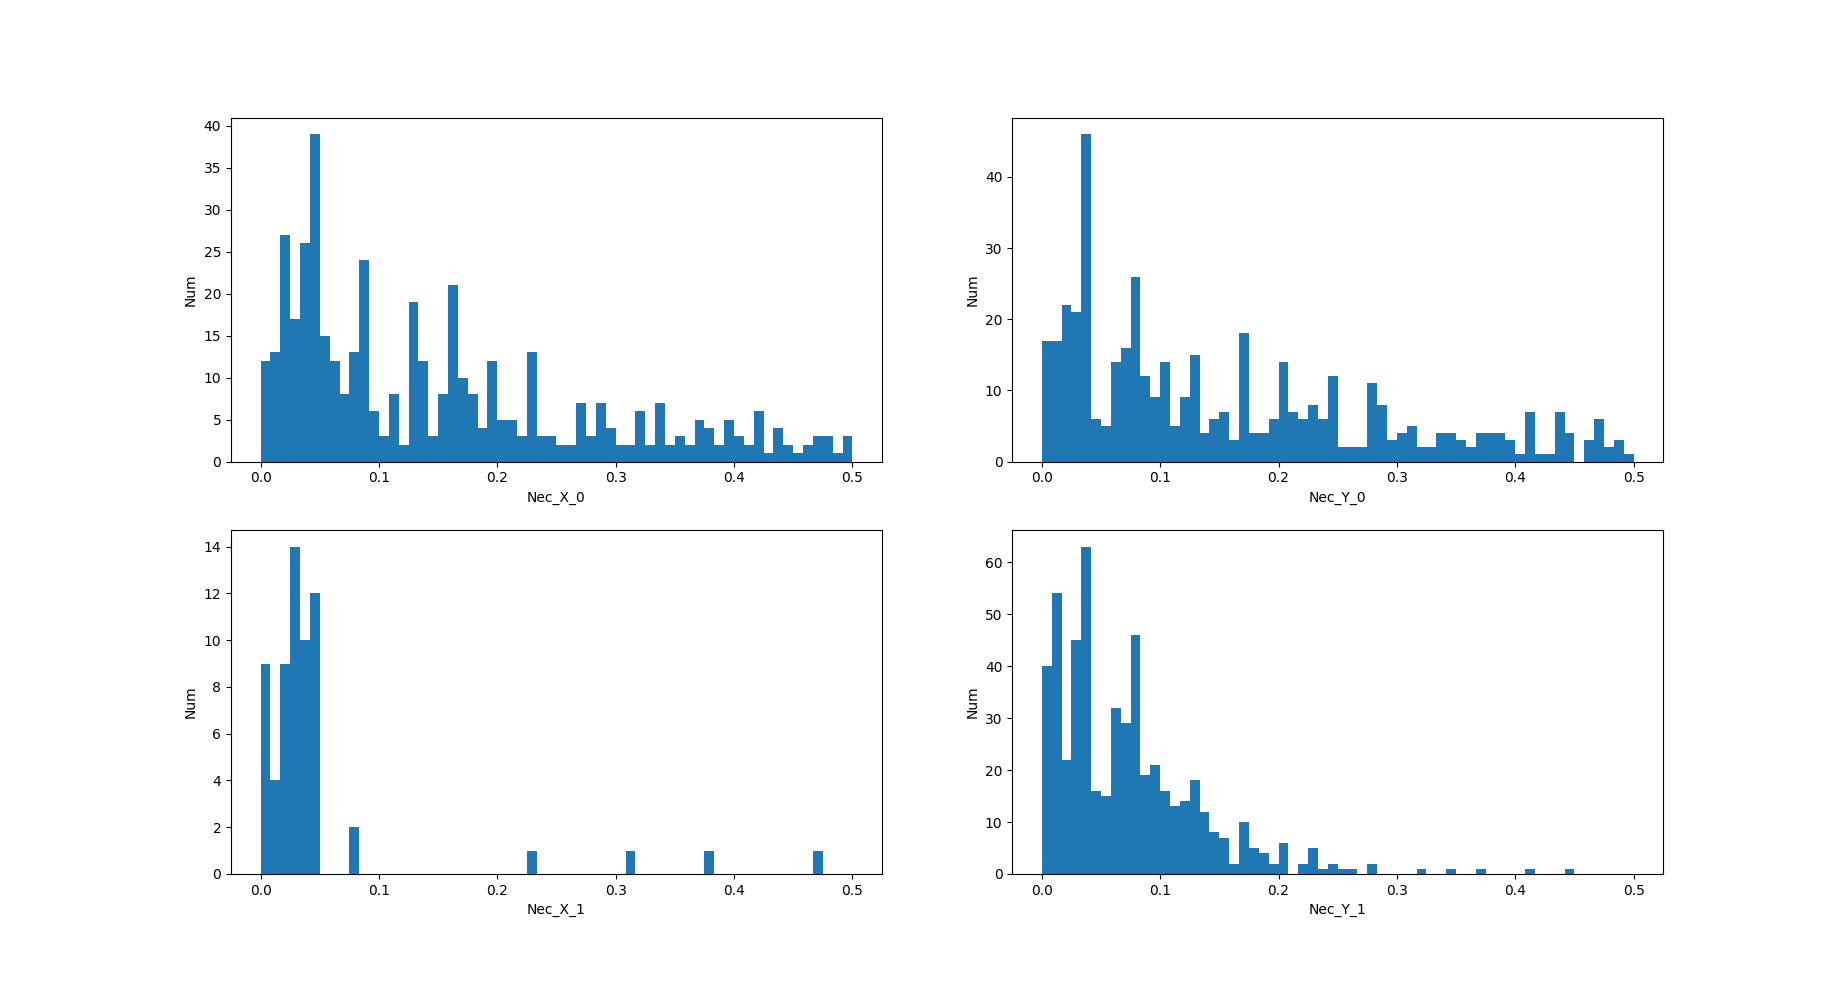
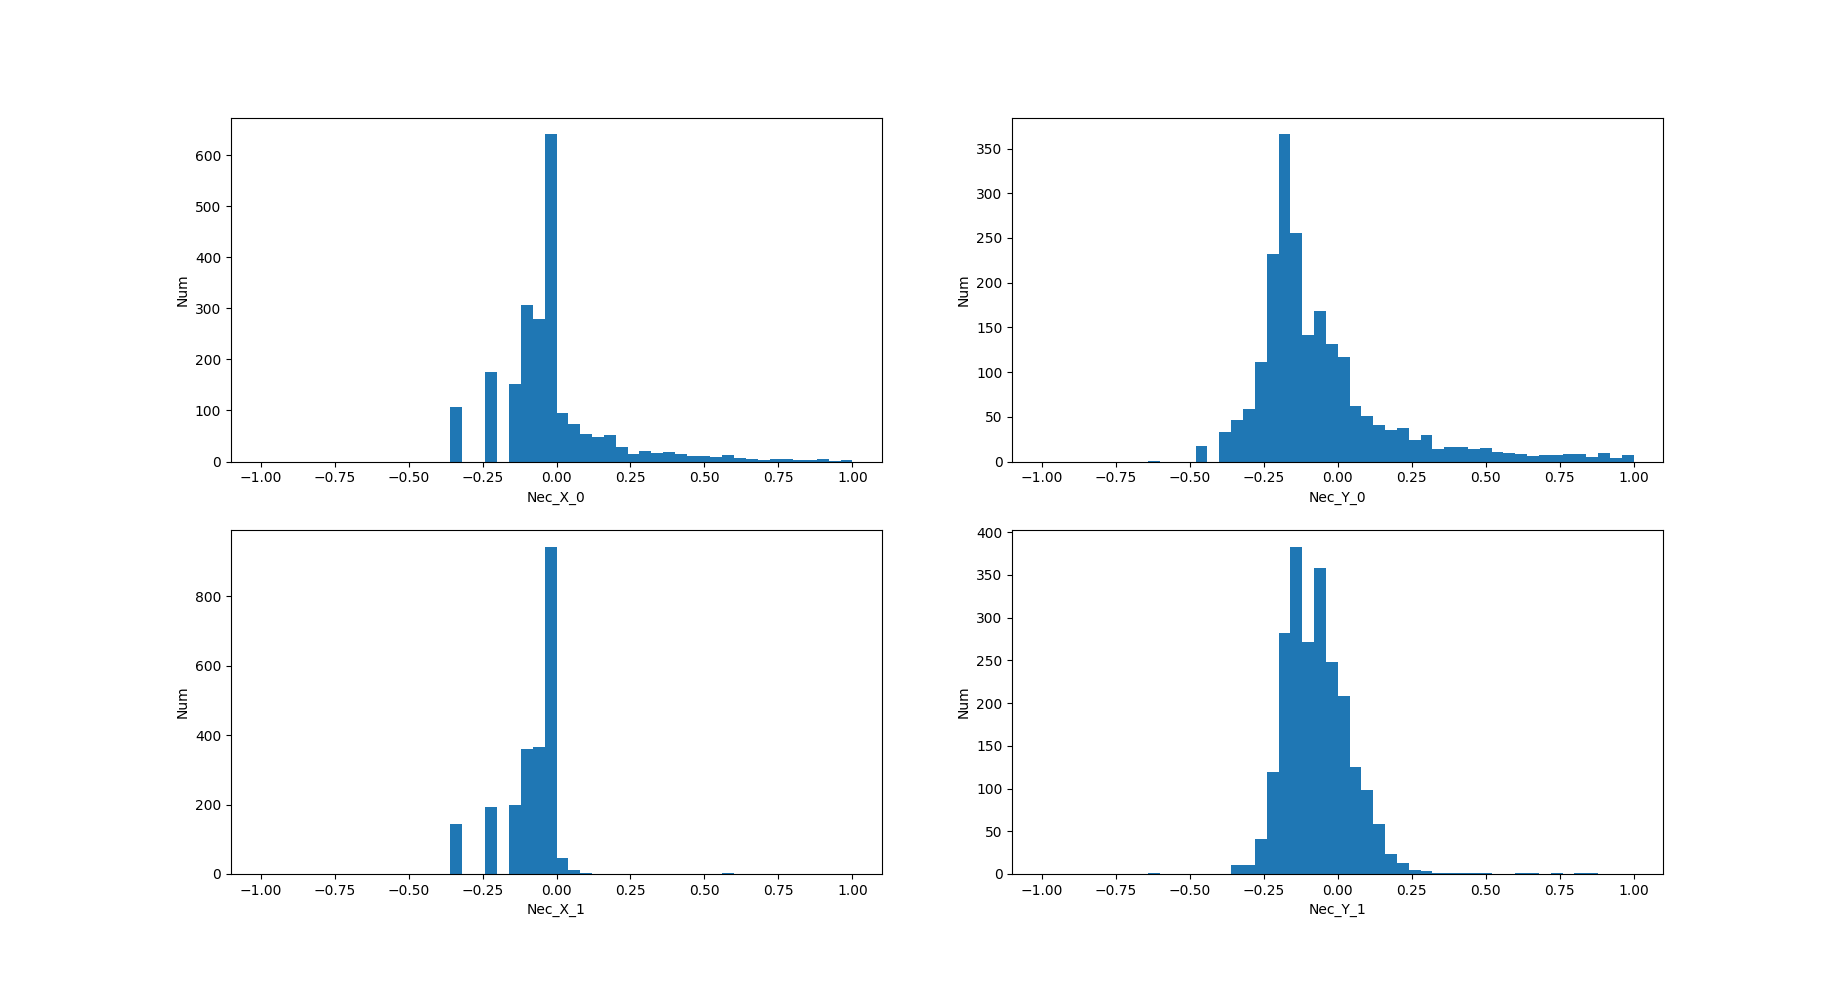
add images and edit 2dhistogram.py

diff --git a/tfpose/1-processing/2dhistogram.py b/tfpose/1-processing/2dhistogram.py
@@ -27,16 +27,24 @@ histo = histo[histo.X != 0]
 histo = histo[histo.Y != 0]
 
 print(histo)
-fig = px.density_heatmap(histo, x="X", y="Y", marginal_x="histogram", marginal_y="histogram",nbinsx=50, nbinsy=50)
+'''fig = px.density_heatmap(histo, x="X", y="Y", marginal_x="histogram", marginal_y="histogram",nbinsx=50, nbinsy=50)
 
 fig.update_layout(
     font=dict(
         family="Times",
         size=25)
-)
-fig.show()
+)'''
 
 
+# fig.show()
+nbins=30
+plt.hist2d(histo['X'], histo['Y'], bins=nbins)
+cb = plt.colorbar()
+cb.set_label('Number of entries')
+
+plt.xlabel('x axis')
+plt.ylabel('y axis')
+plt.show()
 
 
 

diff --git a/tfpose/1-processing/hist_Neck.py b/tfpose/1-processing/hist_Neck.py
@@ -19,7 +19,7 @@ df_nc = pd.read_pickle('../0-data/data_pickle/'+args.nc)
 
 # neckx, necky
 fig, axes = plt.subplots(nrows=2, ncols=2)      
-nbin = 60
+nbin = 50
 
 df_c = df_c[['Nec_X', 'Nec_Y']]
 df_nc = df_nc[['Nec_X', 'Nec_Y']]
@@ -79,8 +79,8 @@ print(df_c.describe())
 print(df_nc.describe())
 
 
-drawStdHist(df_c['stdX'], df_c['stdY'], 1, 0, 0.5)        # concentrate
-drawStdHist(df_nc['stdX'], df_nc['stdY'], 0, 0, 0.5)      # not concentrate
+drawStdHist(df_c['stdX'], df_c['stdY'], 1, -1, 1)        # concentrate
+drawStdHist(df_nc['stdX'], df_nc['stdY'], 0, -1, 1)      # not concentrate
 
 
 plt.show()
